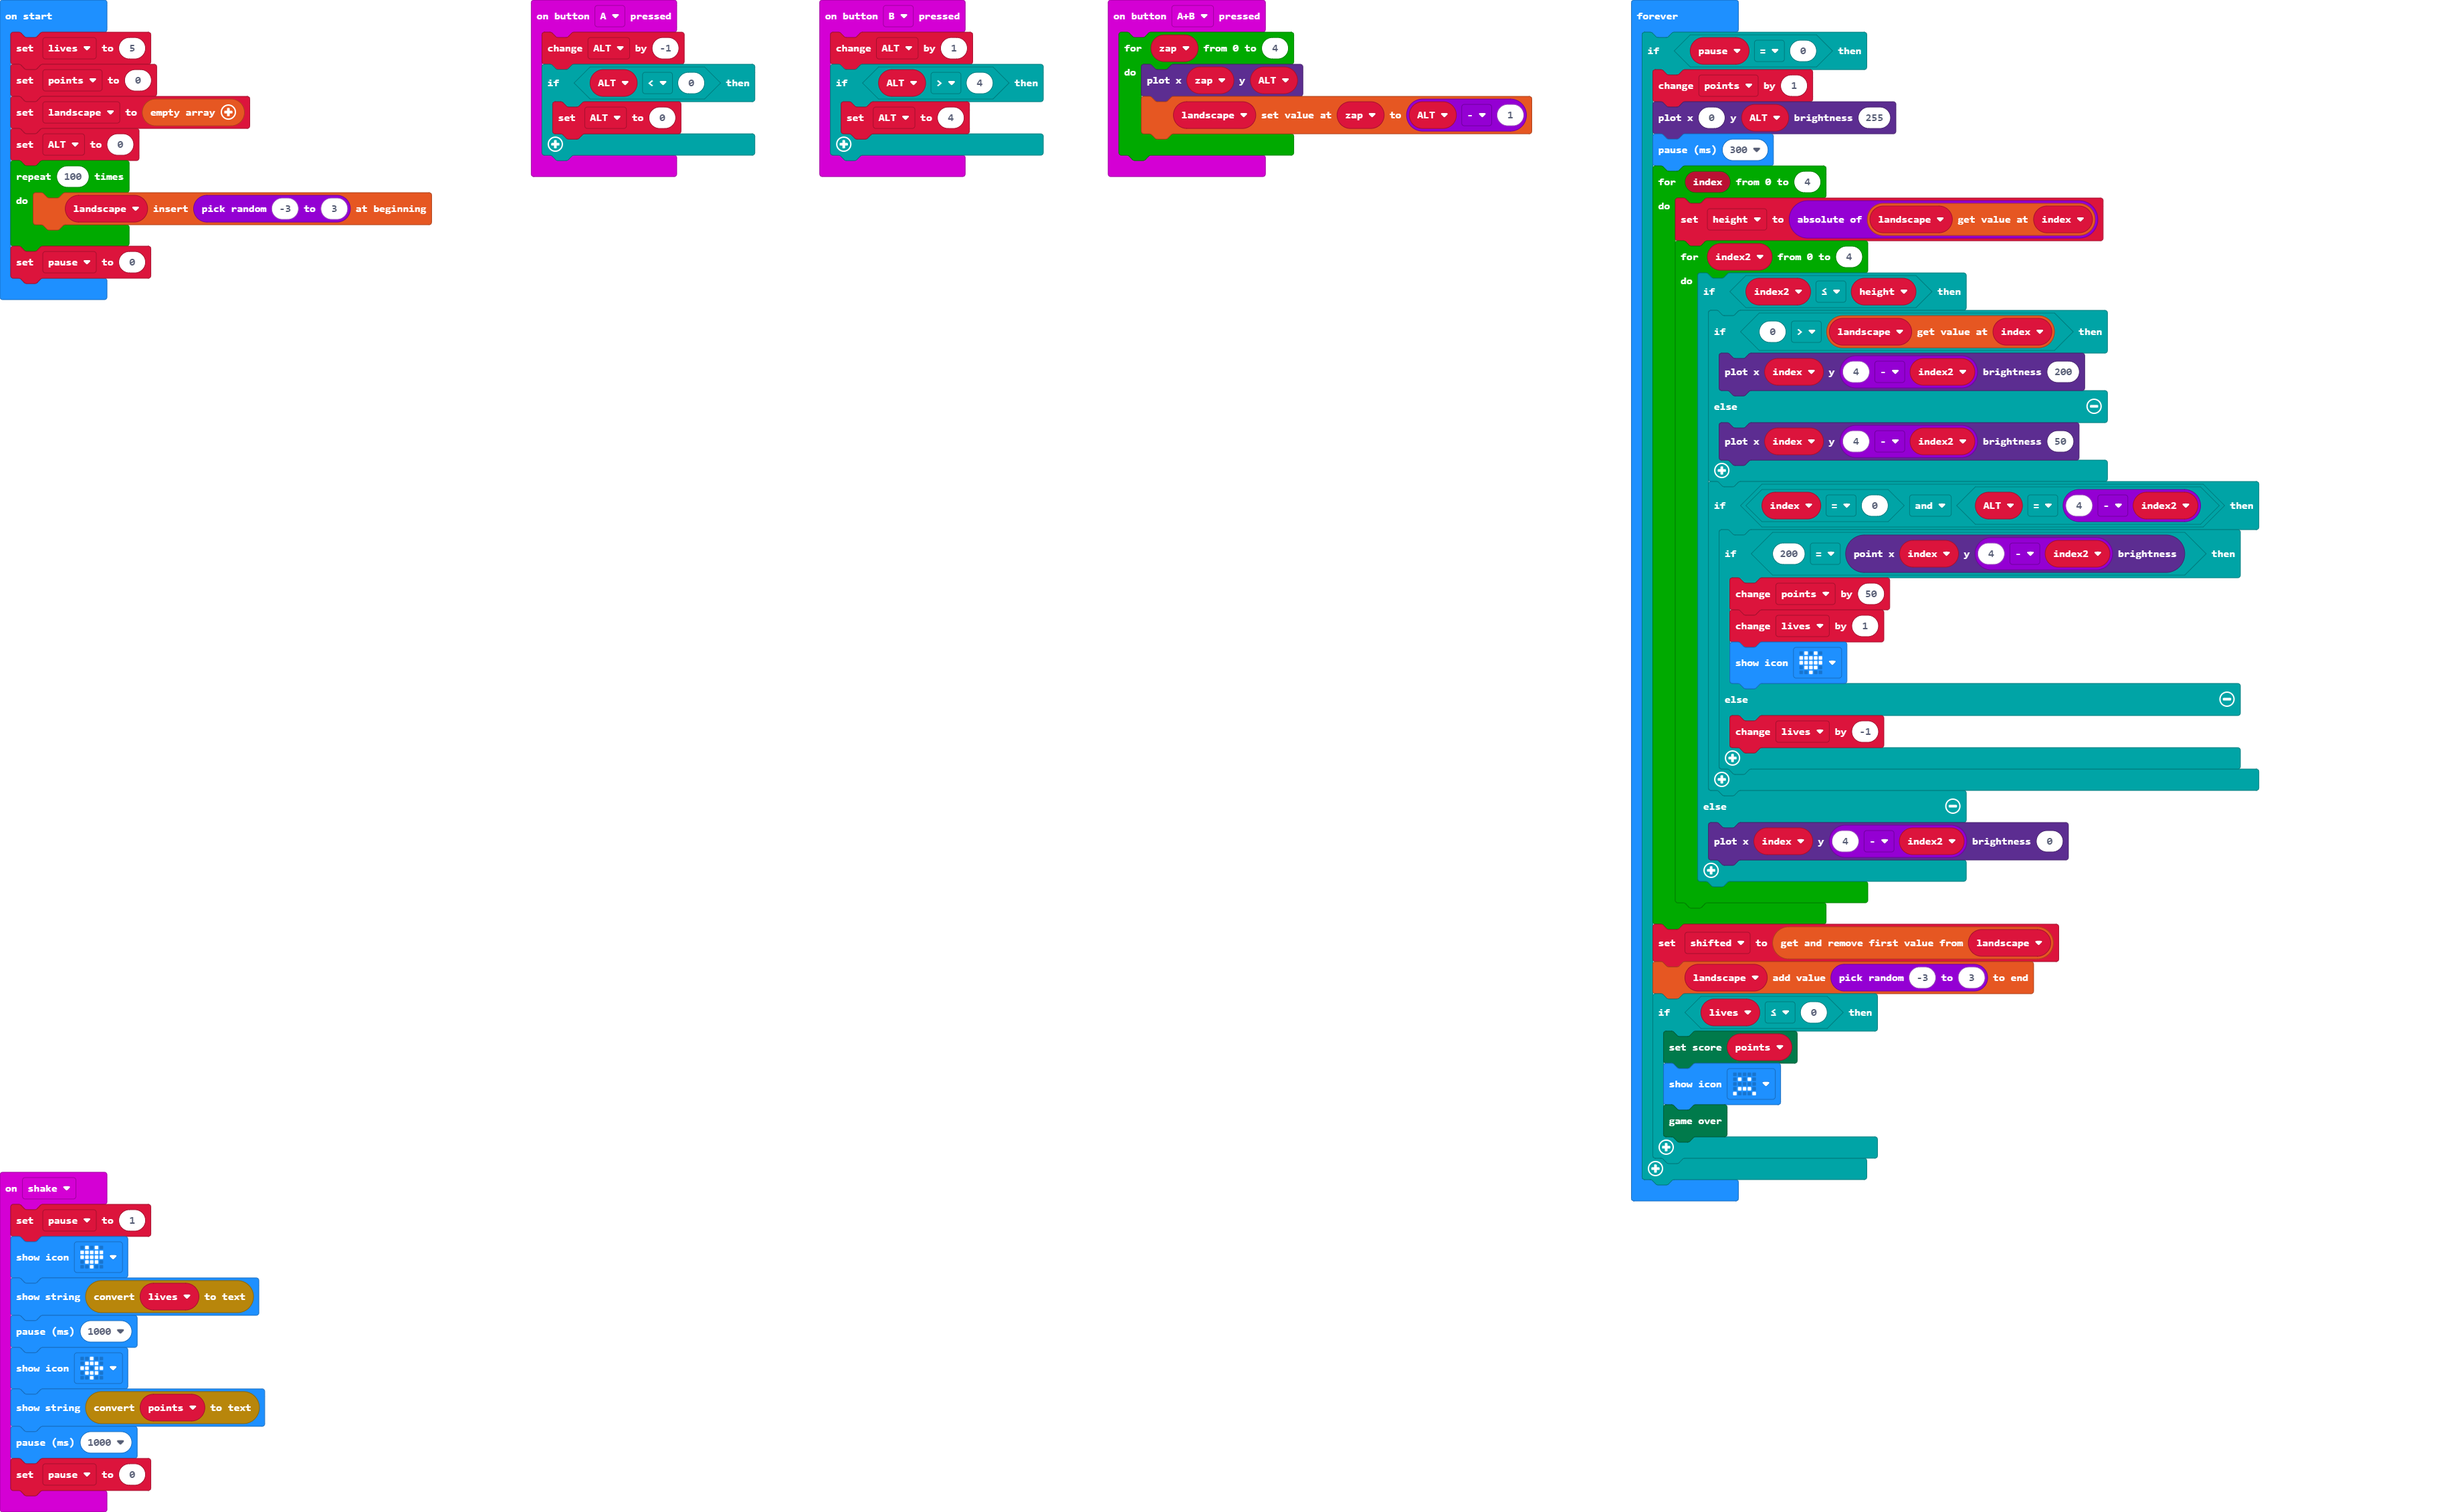
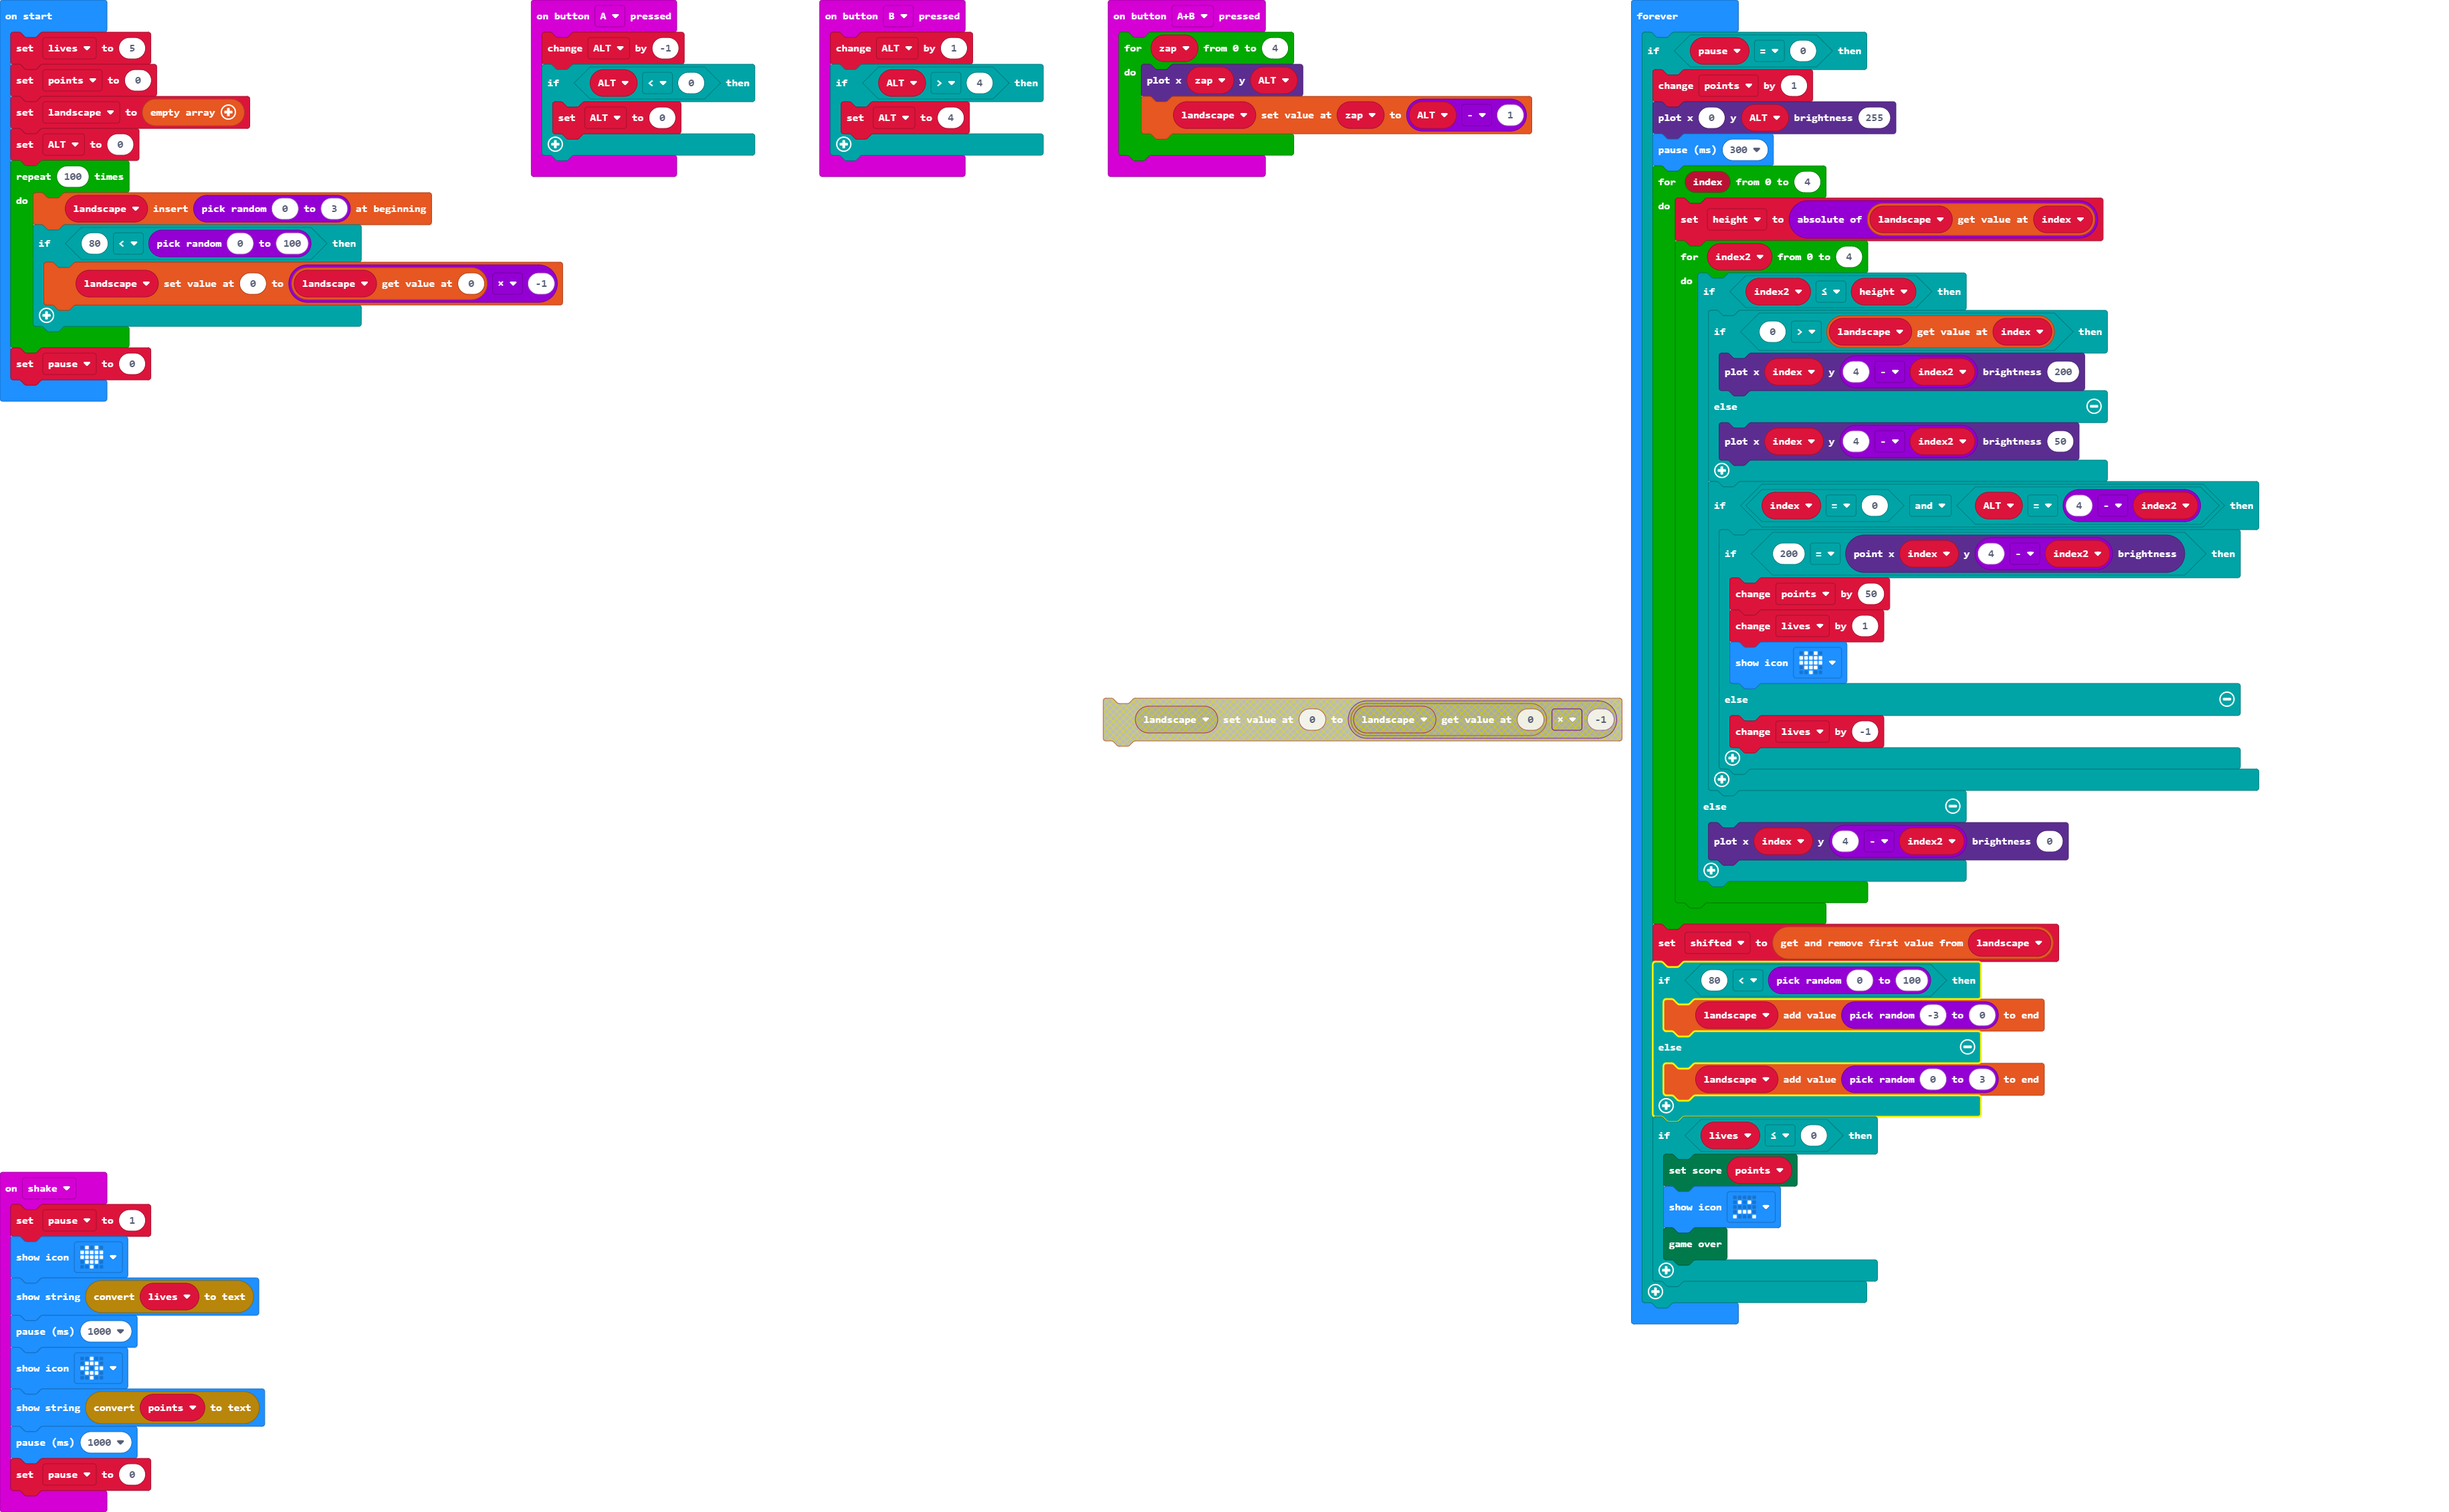
Update main.blocks, main.ts

Changed region(s): [[0.6537, 0.6192, 0.8405, 0.8978], [0.0, 0.1238, 0.249, 0.2786], [0.4358, 0.4644, 0.6849, 0.4954]]

diff --git a/main.ts b/main.ts
@@ -38,7 +38,10 @@ points = 0
 landscape = []
 ALT = 0
 for (let index = 0; index < 100; index++) {
-    landscape.unshift(randint(-3, 3))
+    landscape.unshift(randint(0, 3))
+    if (80 < randint(0, 100)) {
+        landscape[0] = landscape[0] * -1
+    }
 }
 pause2 = 0
 basic.forever(function () {
@@ -70,7 +73,11 @@ basic.forever(function () {
             }
         }
         shifted = landscape.shift()
-        landscape.push(randint(-3, 3))
+        if (80 < randint(0, 100)) {
+            landscape.push(randint(-3, 0))
+        } else {
+            landscape.push(randint(0, 3))
+        }
         if (lives <= 0) {
             game.setScore(points)
             basic.showIcon(IconNames.Sad)
